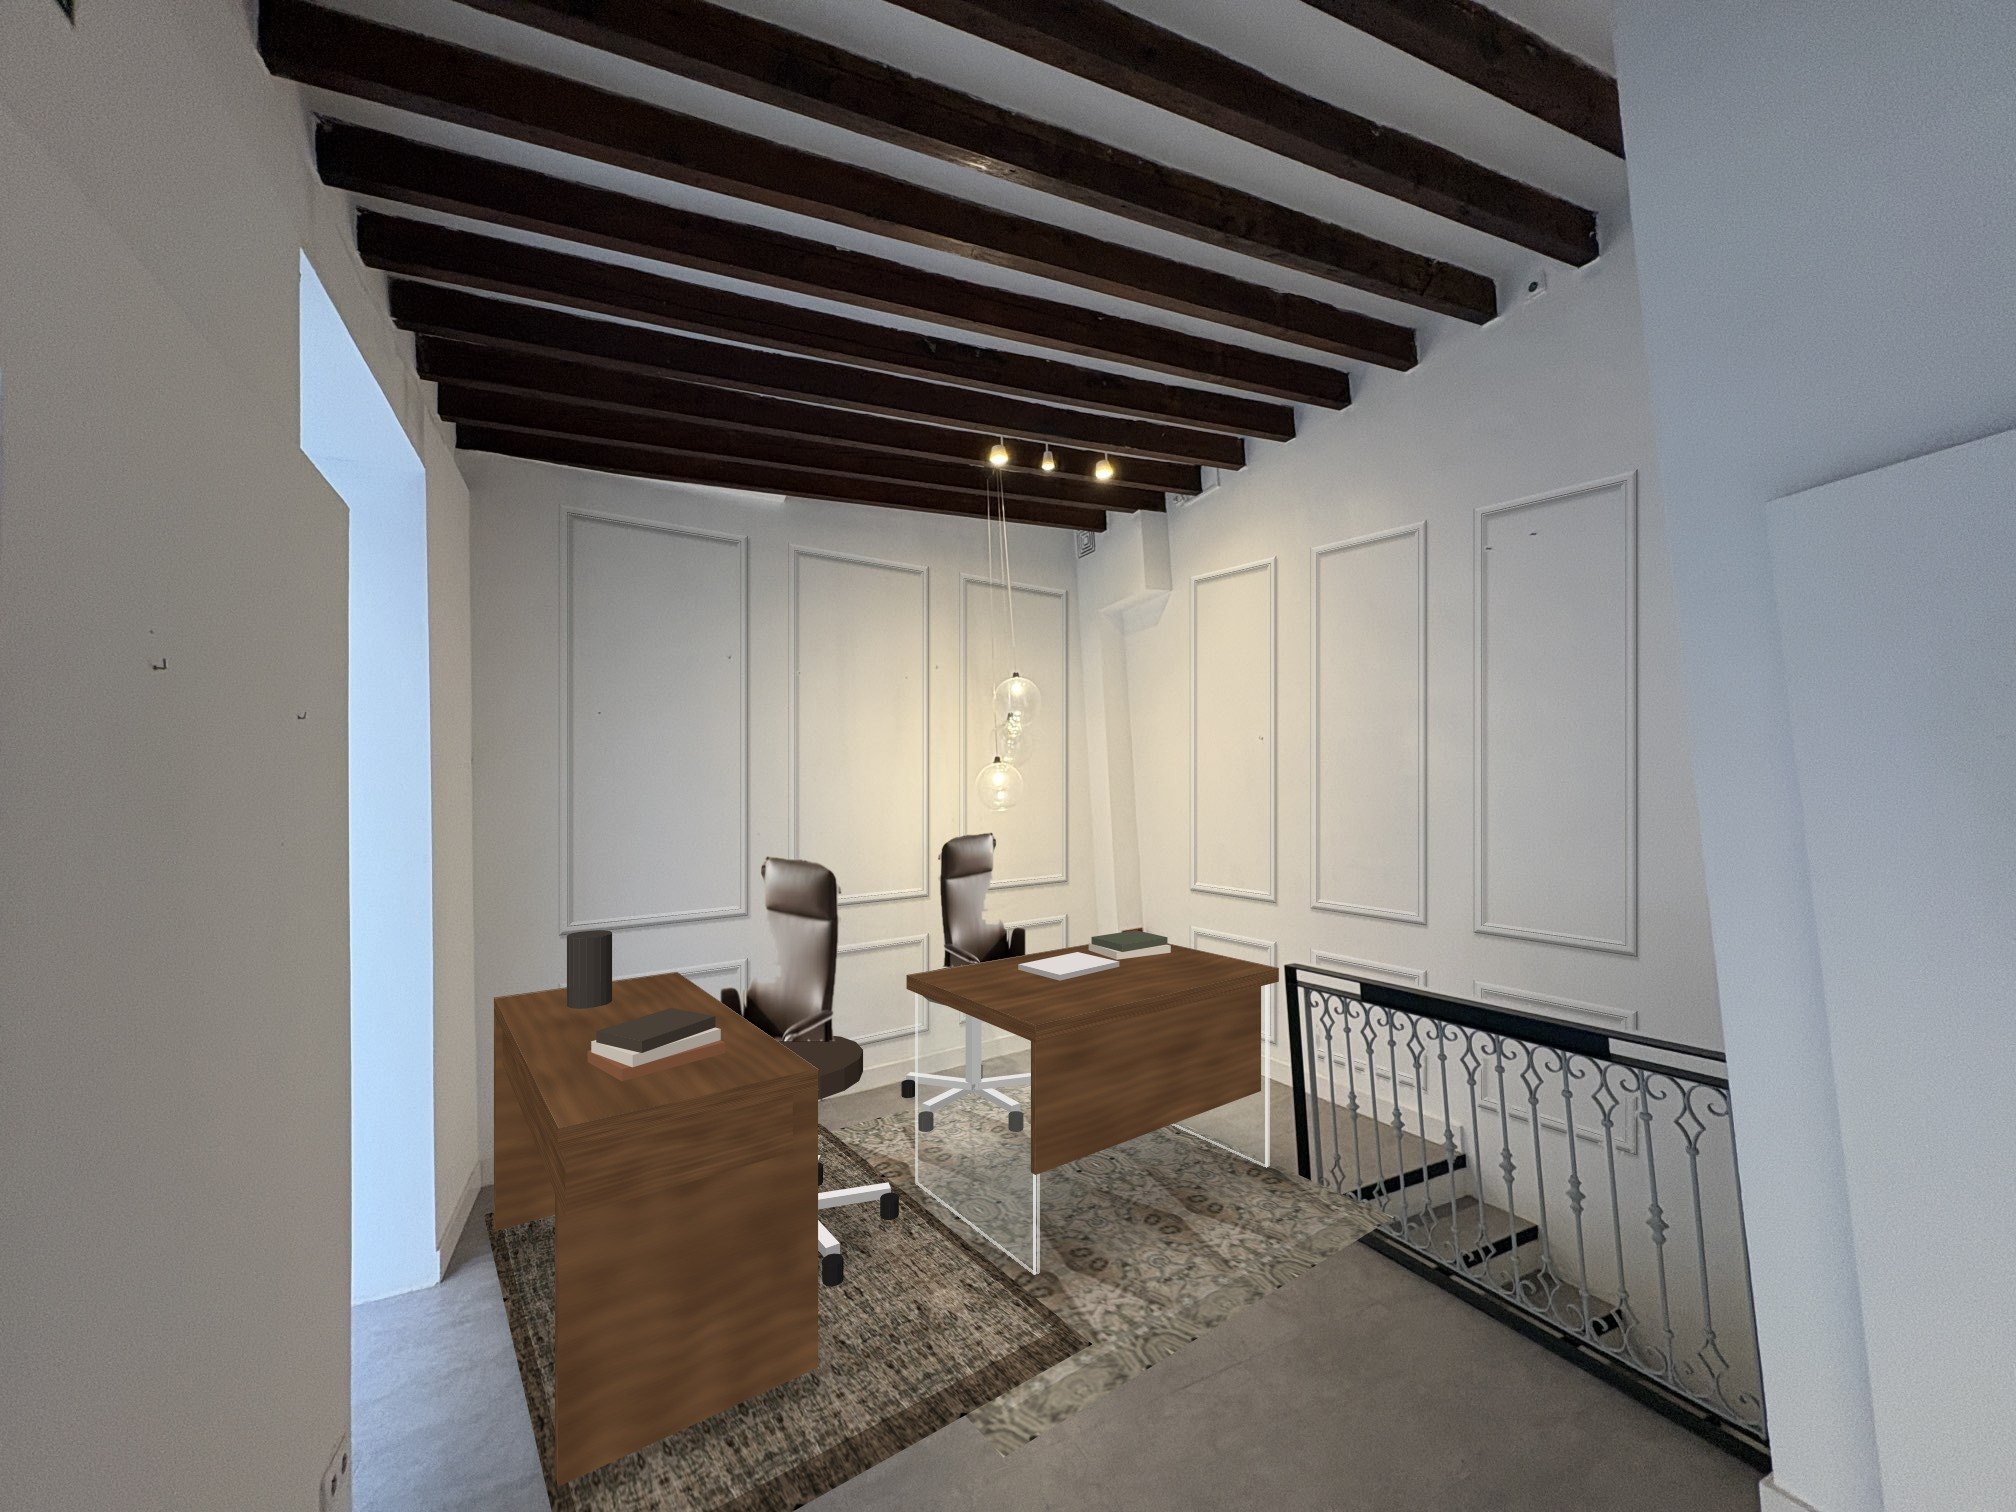
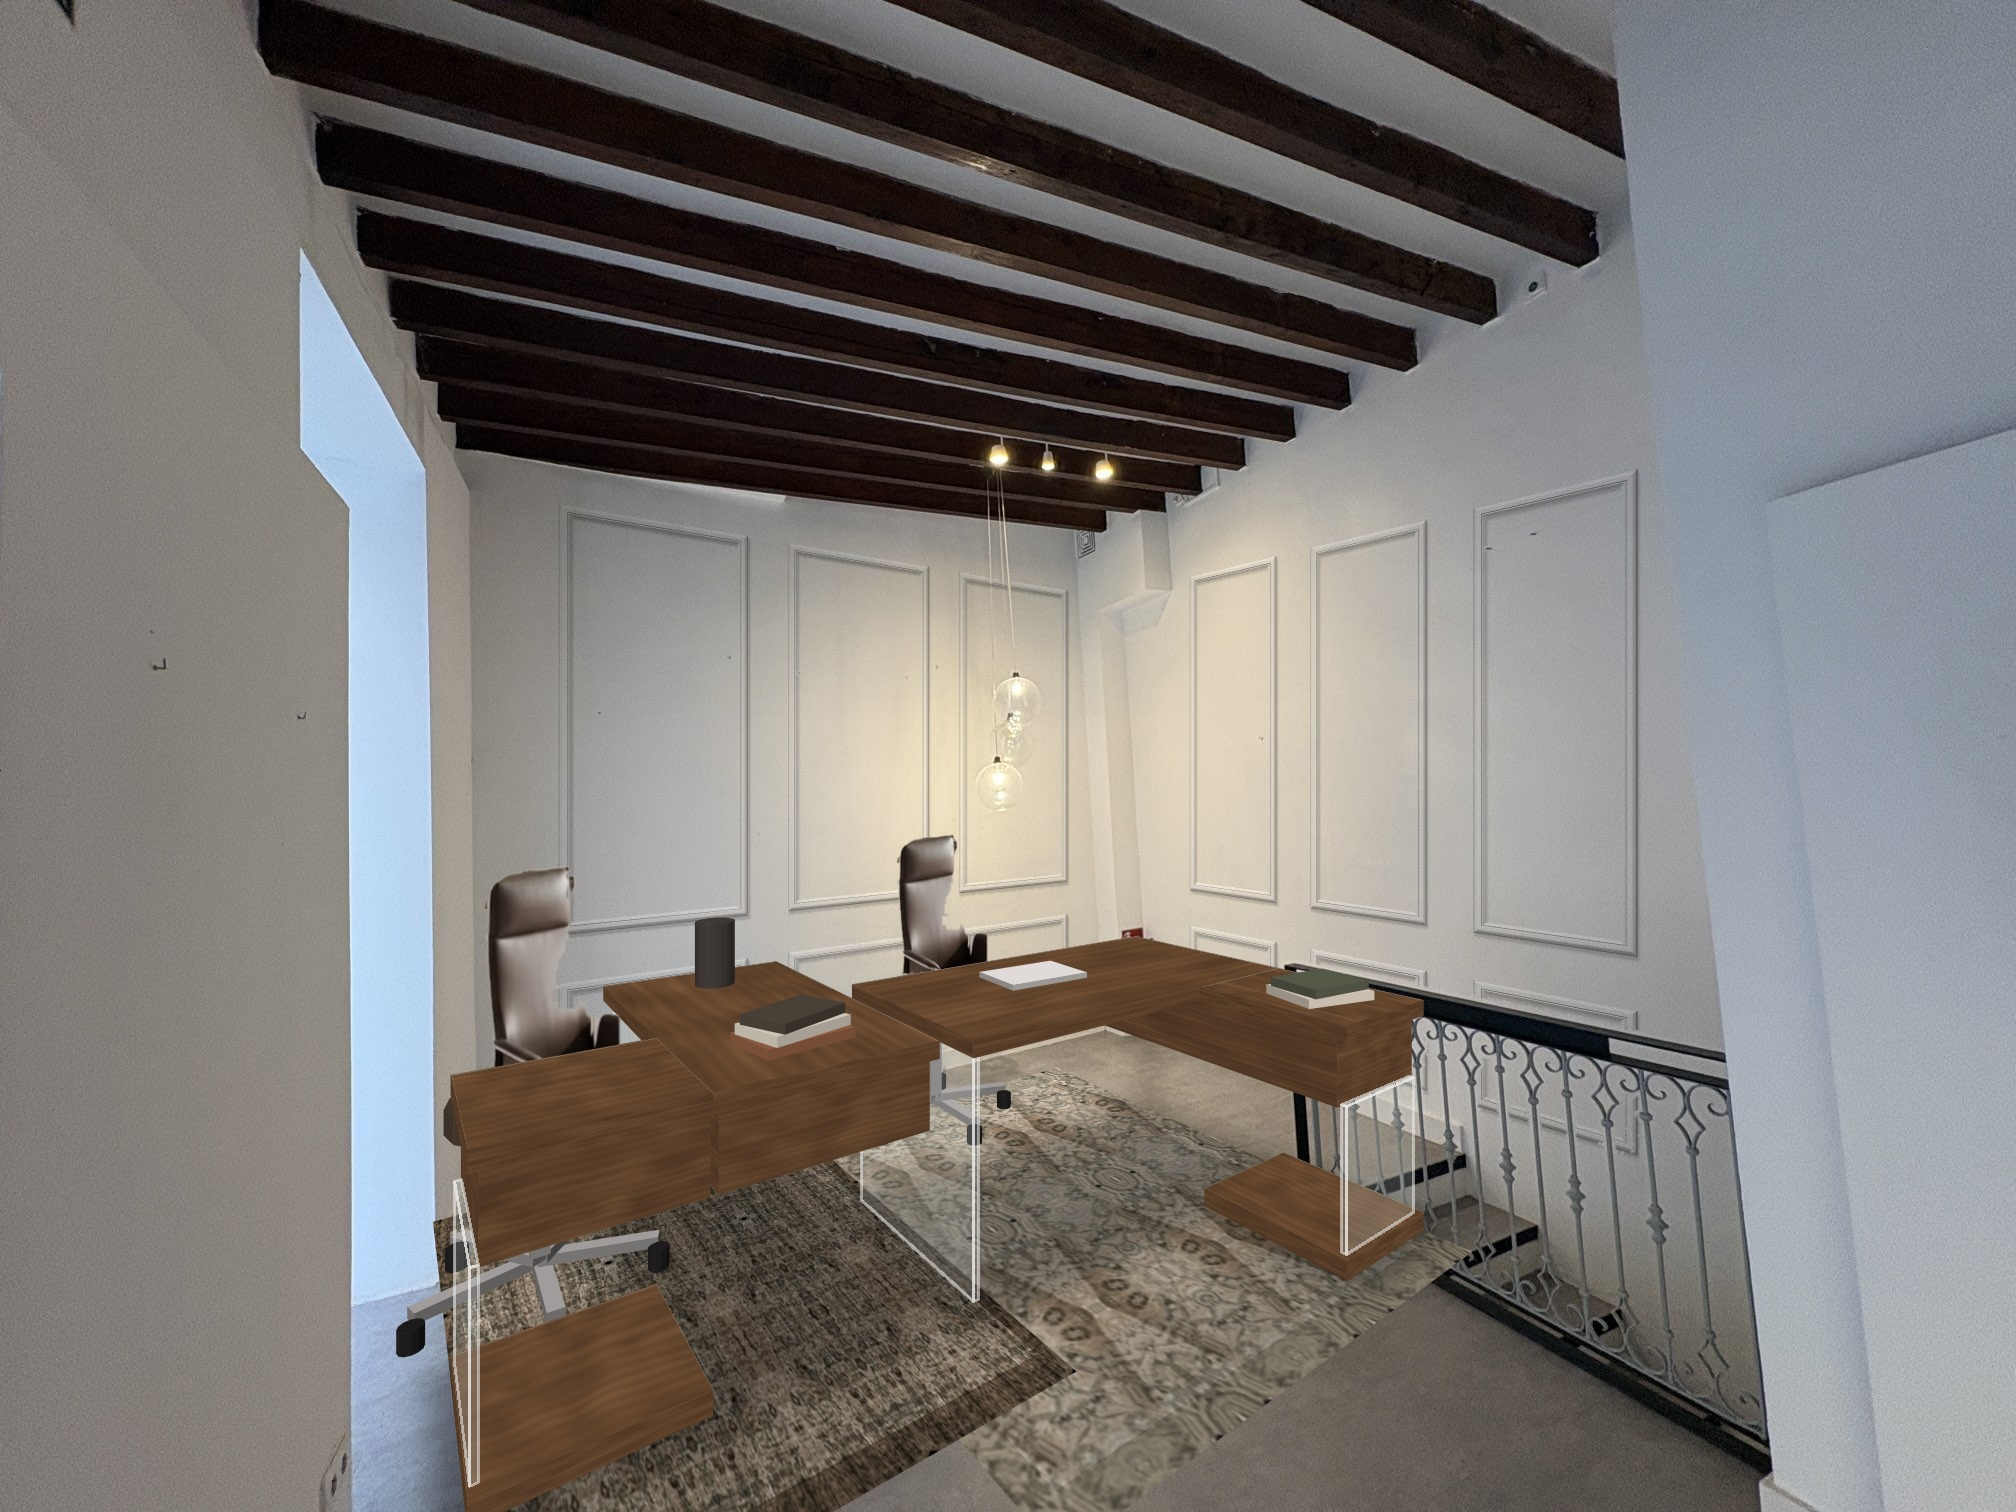
Render both desks as the original model; move left chair to wall side
Claude-Session: https://claude.ai/code/session_01AtbtSpfEeZ9z3akYCE7gfg

Changed region(s): [[0.1875, 0.5284, 0.7188, 1.0]]

diff --git a/floorplan/generate_escritorios.py b/floorplan/generate_escritorios.py
@@ -179,12 +179,12 @@ def chair_base(img, p, q, leather):
         a = k * 2 * math.pi / 5 + 0.3
         dx, dy = math.cos(a), math.sin(a); ox, oy = -dy * 0.022, dx * 0.022
         leg = [(p + ox, q + oy), (p + dx * 0.32 + ox, q + dy * 0.32 + oy), (p + dx * 0.32 - ox, q + dy * 0.32 - oy), (p - ox, q - oy)]
-        img = extrude(img, leg, 0.07, 0.10, (175, 175, 178), spec=0.4)
+        img = extrude(img, leg, 0.07, 0.10, (128, 128, 132), spec=0.3)
         wx, wy = p + dx * 0.32, q + dy * 0.32
         circ = [(wx + 0.03 * math.cos(t), wy + 0.03 * math.sin(t)) for t in np.linspace(0, 2 * math.pi, 12, endpoint=False)]
         img = extrude(img, circ, 0.0, 0.06, (30, 30, 32))
     col = [(p - .025, q - .025), (p + .025, q - .025), (p + .025, q + .025), (p - .025, q + .025)]
-    img = extrude(img, col, 0.10, 0.50, (190, 190, 192), spec=0.5)
+    img = extrude(img, col, 0.10, 0.50, (140, 140, 144), spec=0.3)
     seat = [(p + 0.23 * math.cos(t), q + 0.22 * math.sin(t)) for t in np.linspace(0, 2 * math.pi, 16, endpoint=False)]
     img = extrude(img, seat, 0.50, 0.57, leather)
     return img
@@ -233,18 +233,9 @@ def put(img, spr_m, p, q, width_m, z=0.75, mirror=False):
 
 # ---------------- scene ----------------
 # rugs (layered)
-img = place_rug(img, rug1, 0.62, 2.25, 0.30, 2.05)
-img = place_rug(img, rug2, 1.85, 3.06, 0.20, 1.90)
+img = place_rug(img, rug1, 0.62, 2.30, 0.30, 2.30)
+img = place_rug(img, rug2, 1.95, 3.20, 0.15, 1.95)
 
-# desk A: against back wall, facing camera (glass legs + walnut modesty panel), chair behind
-A = dict(p0=0.62, p1=1.80, q0=0.85, q1=1.60)
-img = shadow(img, [P(A["p1"] + .05, A["q0"] - .05), P(A["p0"] - .05, A["q0"] - .05), P(A["p0"] - .05, A["q1"] + .08), P(A["p1"] + .05, A["q1"] + .08)], 0.35, 16)
-img = chair_base(img, 1.21, 0.42, leather)
-img = chair(img, 1.21, 0.42)
-img = box(img, A["p0"] + .02, A["p0"] + .034, A["q0"] + .03, A["q1"] - .03, 0.0, 0.70, kind="glass")
-img = box(img, A["p1"] - .034, A["p1"] - .02, A["q0"] + .03, A["q1"] - .03, 0.0, 0.70, kind="glass")
-img = box(img, A["p0"] + .04, A["p1"] - .04, A["q1"] - .07, A["q1"] - .05, 0.28, 0.70, kind="wood", seed=11)
-img = box(img, A["p0"], A["p1"], A["q0"], A["q1"], 0.70, 0.75, kind="wood", seed=5)
 import math
 def rect(pc, qc, w, d, ang):
     ca, sa = math.cos(ang), math.sin(ang)
@@ -256,25 +247,39 @@ def books(img, pc, qc, ang, cols, z=0.75):
 def vase(img, pc, qc, r=0.065, hgt=0.22, col=(58, 62, 68), z=0.75):
     poly = [(pc + r * math.cos(t), qc + r * math.sin(t)) for t in np.linspace(0, 2 * math.pi, 20, endpoint=False)]
     return extrude(img, poly, z, z + hgt, col)
-img = extrude(img, rect(1.25, 1.12, 0.32, 0.22, 0.08), 0.75, 0.768, (178, 180, 184), spec=0.3)
-img = books(img, 0.86, 1.05, -0.15, [(198, 214, 226), (78, 96, 92)])
+def W(img, p0, p1, q0, q1, z0, z1, seed, along="p"):
+    return box(img, p0, p1, q0, q1, z0, z1, kind="wood", seed=seed, along=along)
+def G(img, p0, p1, q0, q1, z0, z1):
+    return box(img, p0, p1, q0, q1, z0, z1, kind="glass")
 
-# chair B tucked toward desk B (drawn first so the desk hides its lower part)
-img = shadow(img, [P(2.55, 0.62), P(2.0, 0.62), P(2.0, 1.22), P(2.55, 1.22)], 0.25, 14)
-img = chair_base(img, 2.27, 0.92, leather)
-img = chair(img, 2.27, 0.92, mirror=True)
+# ---------- desk A (same model as your original, wing on the stair side): walnut top, glass leg, drawer + wing ----------
+img = shadow(img, [P(2.07, 0.80), P(0.57, 0.80), P(0.57, 2.22), P(1.12, 2.22), P(1.12, 1.68), P(2.07, 1.68)], 0.33, 16)
+img = chair_base(img, 1.42, 0.42, leather)
+img = chair(img, 1.42, 0.42)
+img = G(img, 1.985, 2.00, 0.88, 1.57, 0.0, 0.70)                 # glass leg, left end
+img = W(img, 0.64, 1.07, 0.88, 2.12, 0.50, 0.70, 31, along="q")    # long drawer box under top + wing
+img = W(img, 0.62, 1.07, 1.62, 2.15, 0.0, 0.06, 32, along="q")     # floor plinth of the wing
+img = G(img, 0.65, 1.04, 2.115, 2.13, 0.06, 0.50)                  # glass end of the wing
+img = W(img, 0.62, 2.02, 0.85, 1.60, 0.70, 0.75, 33)               # main top
+img = W(img, 0.62, 1.07, 1.60, 2.15, 0.70, 0.75, 34, along="q")    # wing top
+img = extrude(img, rect(1.45, 1.15, 0.32, 0.22, -0.06), 0.75, 0.768, (178, 180, 184), spec=0.3)
+img = books(img, 0.85, 1.92, -0.25, [(198, 214, 226), (78, 96, 92)])
 
-# desk B (left side, walnut waterfall), user faces the left wall
-B = dict(p0=2.46, p1=3.04, q0=0.30, q1=1.55)
-img = shadow(img, [P(B["p1"], B["q0"] - .04), P(B["p0"] - .05, B["q0"] - .04), P(B["p0"] - .05, B["q1"] + .05), P(B["p1"], B["q1"] + .05)], 0.35, 14)
-img = box(img, B["p0"], B["p1"], B["q0"], B["q0"] + .04, 0.0, 0.70, kind="wood", seed=21, along="q")
-img = box(img, B["p0"], B["p1"], B["q1"] - .04, B["q1"], 0.0, 0.70, kind="wood", seed=22, along="q")
-img = box(img, B["p0"] + 0.05, B["p1"] - 0.02, B["q0"] + .04, B["q1"] - .04, 0.54, 0.70, kind="wood", seed=23, along="q")
-img = box(img, B["p0"], B["p1"], B["q0"], B["q1"], 0.70, 0.75, kind="wood", seed=24, along="q")
-img = books(img, 2.76, 1.22, 0.2, [(70, 98, 150), (200, 214, 224), (60, 70, 80)])
-img = vase(img, 2.80, 0.55)
+# ---------- desk B: same model, along the left side; user sits on the wall side facing the room ----------
+img = shadow(img, [P(2.77, 0.30), P(2.05, 0.30), P(2.05, 1.60), P(3.25, 1.60), P(3.25, 1.00), P(2.77, 1.00)], 0.33, 16)
+img = G(img, 2.13, 2.69, 0.37, 0.385, 0.0, 0.70)                  # glass leg, back end
+img = W(img, 2.12, 2.70, 1.05, 1.53, 0.50, 0.70, 41)               # drawer under main top, near end
+img = W(img, 2.10, 2.72, 0.35, 1.55, 0.70, 0.75, 43, along="q")    # main top
+img = chair_base(img, 2.97, 0.76, leather)
+img = chair(img, 2.97, 0.76, mirror=False)
+img = W(img, 2.72, 3.20, 1.05, 1.55, 0.0, 0.06, 44)                # wing plinth
+img = W(img, 2.72, 3.18, 1.07, 1.53, 0.50, 0.70, 45)               # wing drawer
+img = G(img, 3.18, 3.195, 1.08, 1.52, 0.06, 0.50)                  # wing glass end
+img = W(img, 2.72, 3.20, 1.05, 1.55, 0.70, 0.75, 46)               # wing top
+img = books(img, 2.42, 1.30, 0.15, [(70, 98, 150), (200, 214, 224), (60, 70, 80)])
+img = vase(img, 2.40, 0.55)
 
-out = np.clip(img, 0, 255).astype(np.uint8)
+out = np.clip(np.nan_to_num(img, nan=0.0), 0, 255).astype(np.uint8)
 cv2.imwrite("/home/user/NEW/floorplan/despachos-escritorios.jpg", out, [cv2.IMWRITE_JPEG_QUALITY, 92])
 cv2.imwrite("desks_small.jpg", cv2.resize(out, (1344, 1008), interpolation=cv2.INTER_AREA))
 print("ok", chair_top, chair_cut)
